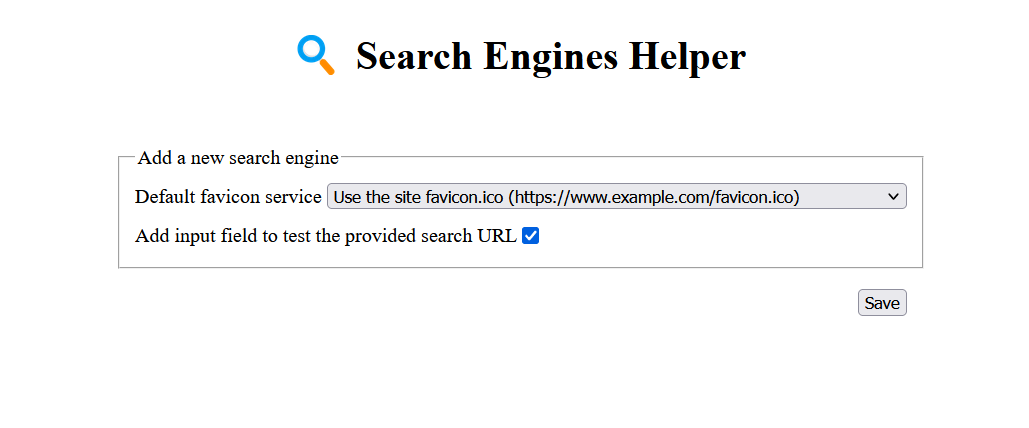
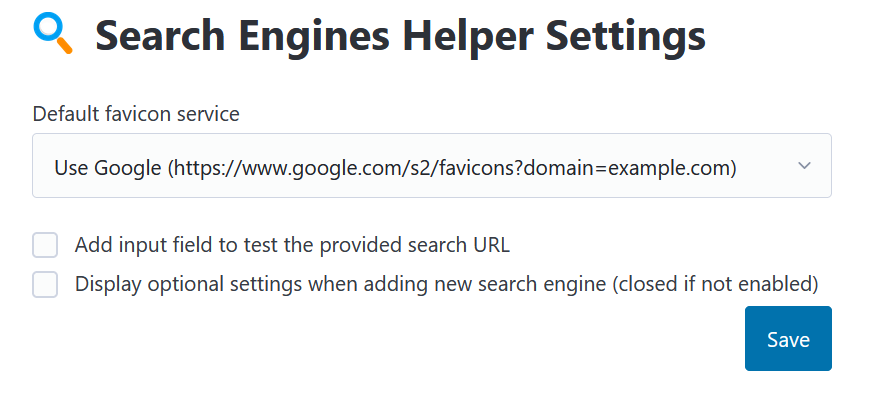
[3.5.2]: Improved design (add search engine, settings), keyword export refactoring

diff --git a/web-ext/js/utils.js b/web-ext/js/utils.js
@@ -8,6 +8,7 @@ function addSearchEngine({
   engineName,
   imageURL,
   suggestionsURL = null,
+  keyword,
   successCallback = null,
   errorCallback = null,
 }) {
@@ -38,6 +39,12 @@ function addSearchEngine({
       `<Url type="application/x-suggestions+json" template="${htmlEscape(
         suggestionsURL,
       )}"/>\n  <Image`,
+    );
+  }
+  if (keyword) {
+    newSearchEngineXML = newSearchEngineXML.replace(
+      "<Image",
+      `<Tags>${keyword}</Tags>\n  <Image`,
     );
   }
   const url = getUrl(newSearchEngineXML);
@@ -152,10 +159,10 @@ function exportMozlz4(data) {
  **/
 async function parseBrowserEngines(file, onParse) {
   const searchEngines = await browser.search.get();
-  const searchEnginesIcons = {};
+  /** @type {Record<String, browser.search.SearchEngine>} */
+  const browserSearchEngines = {};
   searchEngines.forEach(
-    (searchEngine) =>
-      (searchEnginesIcons[searchEngine.name] = searchEngine.favIconUrl),
+    (searchEngine) => (browserSearchEngines[searchEngine.name] = searchEngine),
   );
   readMozlz4File(file, (json) => {
     try {
@@ -173,8 +180,8 @@ async function parseBrowserEngines(file, onParse) {
         )
         .forEach((engine) => {
           let name = engine["_name"];
-          let iconURL = searchEnginesIcons[name];
-          let keyword = engine["_metaData"].alias || undefined;
+          let iconURL = browserSearchEngines[name].favIconUrl;
+          let keyword = browserSearchEngines[name].alias;
           let searchURL = "";
           /** @type {Array} */
           const urls = engine["_urls"];

diff --git a/web-ext/js/import.js b/web-ext/js/import.js
@@ -18,14 +18,21 @@
     parseJsonFile(importJsonInput, (importedEngines) => {
       const enginesToImport = Object.keys(importedEngines)
         .filter((name) => existingSearchEngines.indexOf(name) == -1)
-        .map((name) => {
-          return {
-            searchName: name,
-            searchURL: importedEngines[name].searchURL,
-            iconURL: importedEngines[name].iconURL,
-            suggestionsURL: importedEngines[name].suggestionsURL,
-          };
-        });
+        .map(
+          /**
+           * @param {string} name
+           * @returns {SearchEngine}
+           */
+          (name) => {
+            return {
+              searchName: name,
+              searchURL: importedEngines[name].searchURL,
+              iconURL: importedEngines[name].iconURL,
+              suggestionsURL: importedEngines[name].suggestionsURL,
+              keyword: importedEngines[name].keyword,
+            };
+          },
+        );
       if (enginesToImport.length > 0) {
         importSearchEngines(enginesToImport);
       } else {
@@ -45,8 +52,15 @@
         searchName: engineName,
         iconURL: imageURL,
         suggestionsURL,
+        keyword,
       }) => {
-        addSearchEngine({ searchURL, suggestionsURL, engineName, imageURL });
+        addSearchEngine({
+          searchURL,
+          suggestionsURL,
+          engineName,
+          imageURL,
+          keyword,
+        });
       },
     );
   }

diff --git a/web-ext/js/add.js b/web-ext/js/add.js
@@ -4,6 +4,7 @@ var engineNameInput = $("#AddEngineName");
 var iconURLInput = $("#AddEngineIconURL");
 var engineIconDiv = $("#EngineIcon");
 var loadImageInput = $("#loadImage");
+var keywordInput = $("#Keyword");
 $("#addSearchEngine").click(submitSearchEngine);
 loadImageInput.change(loadImage);
 
@@ -55,6 +56,7 @@ function submitSearchEngine() {
   let engineName = engineNameInput.val().toString().trim();
   let searchURL = searchURLInput.val().toString().trim();
   let suggestionsURL = suggestionsURLInput.val().toString().trim();
+  let keyword = keywordInput.val().toString().trim();
   let imageURL = iconURLInput.val().toString().trim();
   if (searchURL.length == 0) {
     notify("The search URL cannot be empty");
@@ -77,6 +79,7 @@ function submitSearchEngine() {
     suggestionsURL,
     engineName,
     imageURL,
+    keyword,
     successCallback,
     errorCallback,
   });

diff --git a/web-ext/pages/add.html b/web-ext/pages/add.html
@@ -66,6 +66,10 @@
 
           <details id="displayOptionalSettings">
             <summary>Optional settings</summary>
+            <div style="display: none">
+              <label>Keyword (used in search & url bar)</label>
+              <input id="Keyword" type="text" />
+            </div>
             <div>
               <label
                 >Suggestions URL: "%s" is substituted with the search

diff --git a/web-ext/js/index.d.ts b/web-ext/js/index.d.ts
@@ -9,6 +9,7 @@ interface SearchEngine {
   searchURL: string;
   suggestionsURL?: string;
   iconURL: string;
+  keyword: string;
 }
 
 interface SearchEngineDTO {
